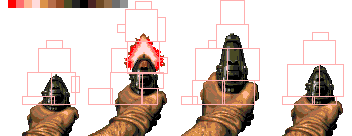
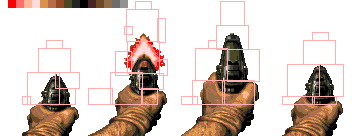
Flush DMA for HUD tiles and SPRITE tiles and WEAPON PALS on HINT. CPU usage 68%

diff --git a/src/hint_callback.c b/src/hint_callback.c
@@ -89,21 +89,21 @@ bool canDMAinHint (u16 lenInWord)
     return (tilesLenInWordTotalToDMA + lenInWord) <= DMA_LENGTH_IN_WORD_THRESHOLD_FOR_HINT;
 }
 
-void hint_enqueueWeaponPal (u16* pal)
+void hint_enqueueWeaponPal (u16* pal_ptr)
 {
     // This was the old way
-    // PAL_setColors(WEAPON_BASE_PAL*16 + 1, pal + 1, 16, DMA_QUEUE);
-    // PAL_setColors((WEAPON_BASE_PAL+1)*16 + 1, pal + 16 + 1, 16, DMA_QUEUE);
+    // PAL_setColors(WEAPON_BASE_PAL*16 + 1, pal_ptr + 1, 16, DMA_QUEUE);
+    // PAL_setColors((WEAPON_BASE_PAL+1)*16 + 1, pal_ptr + 16 + 1, 16, DMA_QUEUE);
 
-    weaponPalA_addrForDMA = (u32) (pal + 1) >> 1;
-    //weaponPalB_addrForDMA = (u32) (pal + 16 + 1) >> 1;
+    weaponPalA_addrForDMA = (u32) (pal_ptr + 1) >> 1;
+    //weaponPalB_addrForDMA = (u32) (pal_ptr + 16 + 1) >> 1;
 }
 
-void hint_setPalToRestore (u16* pal)
+void hint_setPalToRestore (u16* pal_ptr)
 {
     #if HUD_RELOAD_OVERRIDEN_PALETTES_AT_HINT
-    restorePalA_addrForDMA = (u32) (pal + 1) >> 1;
-    //restorePalB_addrForDMA = (u32) (pal + 16 + 1) >> 1;
+    restorePalA_addrForDMA = (u32) (pal_ptr + 1) >> 1;
+    //restorePalB_addrForDMA = (u32) (pal_ptr + 16 + 1) >> 1;
     #endif
 }
 
@@ -226,12 +226,10 @@ HINTERRUPT_CALLBACK hint_load_hud_pals_callback ()
     // Have any hud tilemaps to DMA?
     if (hud_tilemap) {
         hud_tilemap = 0;
-        // PW_ADDR_AT_HUD comes with the correct base position in screen
-        u32 fromAddr = HUD_TILEMAP_DST_ADDRESS;
         #pragma GCC unroll 4 // Always set the max number since it does not accept defines
         for (u8 i=0; i < HUD_BG_H; ++i) {
             // it relies on vdpCtrl_ptr_l
-            doDMAfast_fixed_args(vdpCtrl_ptr_l, fromAddr + i*TILEMAP_COLUMNS*2, VDP_DMA_VRAM_ADDR(PW_ADDR_AT_HUD + i*PLANE_COLUMNS*2), TILEMAP_COLUMNS);
+            doDMAfast_fixed_args(vdpCtrl_ptr_l, HUD_TILEMAP_DST_ADDRESS + i*TILEMAP_COLUMNS*2, VDP_DMA_VRAM_ADDR(PW_ADDR_AT_HUD + i*PLANE_COLUMNS*2), TILEMAP_COLUMNS);
         }
     }
     #endif

diff --git a/src/vint_callback.c b/src/vint_callback.c
@@ -78,11 +78,11 @@ void vint_enqueueHudTilemap ()
     #endif
 }
 
-void vint_setPalToRestore (u16* pal)
+void vint_setPalToRestore (u16* pal_ptr)
 {
     #if HUD_RELOAD_OVERRIDEN_PALETTES_AT_VINT
-    restorePalA_addrForDMA = (u32) (pal + 1) >> 1;
-    //restorePalB_addrForDMA = (u32) (pal + 16 + 1) >> 1;
+    restorePalA_addrForDMA = (u32) (pal_ptr + 1) >> 1;
+    //restorePalB_addrForDMA = (u32) (pal_ptr + 16 + 1) >> 1;
     #endif
 }
 
@@ -130,8 +130,11 @@ void vint_callback ()
 
 	render_Z80_setBusProtection(FALSE);
 
-    #if HUD_RELOAD_OVERRIDEN_PALETTES_AT_VINT
+    #if HUD_RELOAD_OVERRIDEN_PALETTES_AT_VINT | DMA_ENQUEUE_HUD_TILEMAP_TO_FLUSH_AT_VINT
     vu32* vdpCtrl_ptr_l = (vu32*) VDP_CTRL_PORT;
+    #endif
+
+    #if HUD_RELOAD_OVERRIDEN_PALETTES_AT_VINT
 	// Reload the palettes that were overriden by the HUD palettes
     setupDMAForPals(15, restorePalA_addrForDMA);
 	u32 palCmd_restore = VDP_DMA_CRAM_ADDR(((WEAPON_BASE_PAL+0) * 16 + 1) * 2); // target starting color index multiplied by 2
@@ -145,11 +148,9 @@ void vint_callback ()
     // Have any hud tilemaps to DMA?
     if (hud_tilemap) {
         hud_tilemap = 0;
-        // PW_ADDR_AT_HUD comes with the correct base position in screen
-        u32 fromAddr = HUD_TILEMAP_DST_ADDRESS;
         #pragma GCC unroll 4 // Always set the max number since it does not accept defines
         for (u8 i=0; i < HUD_BG_H; ++i) {
-            doDMAfast_fixed_args(vdpCtrl_ptr_l, fromAddr + i*TILEMAP_COLUMNS*2, VDP_DMA_VRAM_ADDR(PW_ADDR_AT_HUD + i*PLANE_COLUMNS*2), TILEMAP_COLUMNS);
+            doDMAfast_fixed_args(vdpCtrl_ptr_l, HUD_TILEMAP_DST_ADDRESS + i*TILEMAP_COLUMNS*2, VDP_DMA_VRAM_ADDR(PW_ADDR_AT_HUD + i*PLANE_COLUMNS*2), TILEMAP_COLUMNS);
         }
     }
     #endif

diff --git a/inc/consts.h b/inc/consts.h
@@ -50,12 +50,12 @@
 #define DMA_TILES_THRESHOLD_FOR_HINT 200 // when this number of tiles is exceeded we move the exceeding tiles to VInt queue.
 #define DMA_LENGTH_IN_WORD_THRESHOLD_FOR_HINT ((DMA_TILES_THRESHOLD_FOR_HINT * 32) / 2)
 
-#define DMA_ENQUEUE_HUD_TILEMAP_TO_FLUSH_AT_HINT F
-#define DMA_ENQUEUE_HUD_TILEMAP_TO_FLUSH_AT_VINT T
+#define DMA_ENQUEUE_HUD_TILEMAP_TO_FLUSH_AT_HINT T
+#define DMA_ENQUEUE_HUD_TILEMAP_TO_FLUSH_AT_VINT F
 #define DMA_HUD_TILEMAP_IMMEDIATELY F
 
-#define DMA_ENQUEUE_VDP_SPRITE_CACHE_TO_FLUSH_AT_HINT F
-#define DMA_ENQUEUE_VDP_SPRITE_CACHE_TO_FLUSH_AT_VINT T
+#define DMA_ENQUEUE_VDP_SPRITE_CACHE_TO_FLUSH_AT_HINT T
+#define DMA_ENQUEUE_VDP_SPRITE_CACHE_TO_FLUSH_AT_VINT F
 #define DMA_ENQUEUE_VDP_SPRITE_CACHE_FOR_SGDK_QUEUE F
 #define DMA_ENQUEUE_VDP_SPRITE_CACHE_ON_CUSTOM_SPR_QUEUE F
 

diff --git a/inc/hud_consts.h b/inc/hud_consts.h
@@ -9,8 +9,8 @@
 // ((224-32)-2)/2 = 95. And additional -1 because hintCounter is 0 based
 #define HINT_SCANLINE_MID_SCREEN (HINT_SCANLINE_START_PAL_SWAP/2 - 1)
 
-#define HUD_RELOAD_OVERRIDEN_PALETTES_AT_HINT F
-#define HUD_RELOAD_OVERRIDEN_PALETTES_AT_VINT T
+#define HUD_RELOAD_OVERRIDEN_PALETTES_AT_HINT T
+#define HUD_RELOAD_OVERRIDEN_PALETTES_AT_VINT F
 
 #define HUD_PAL PAL2 // If change this value you'll have to update map_base parameter in resource file
 // This value is the parameter map_base that has to go in the resource file if you modify one of the above. Currently is 16456.
